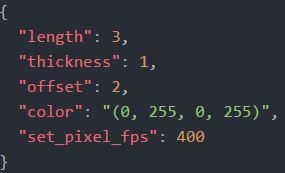
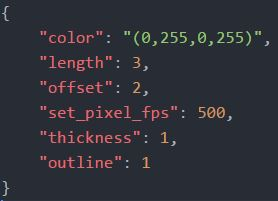
Updated image and README

diff --git a/README.md b/README.md
@@ -2,8 +2,9 @@
 Simple customizable crosshair for every game.  
 ![config.jpg](images/config.jpg?raw=true "config.jpg")
 ## Settings explained (config.json)
-* **length**: line length (pixels)
-* **thickness**: line thickness (pixels)
-* **offset**: the offset from center of screen (pixels)
 * **color**: crosshair color (RGBA)
+* **length**: line length (pixels)
+* **offset**: the offset from center of screen (pixels)
 * **set_pixel_fps**: define how many times to render crosshair in second
+* **thickness**: line thickness (pixels)
+* **outline**: set outline (on/off)
